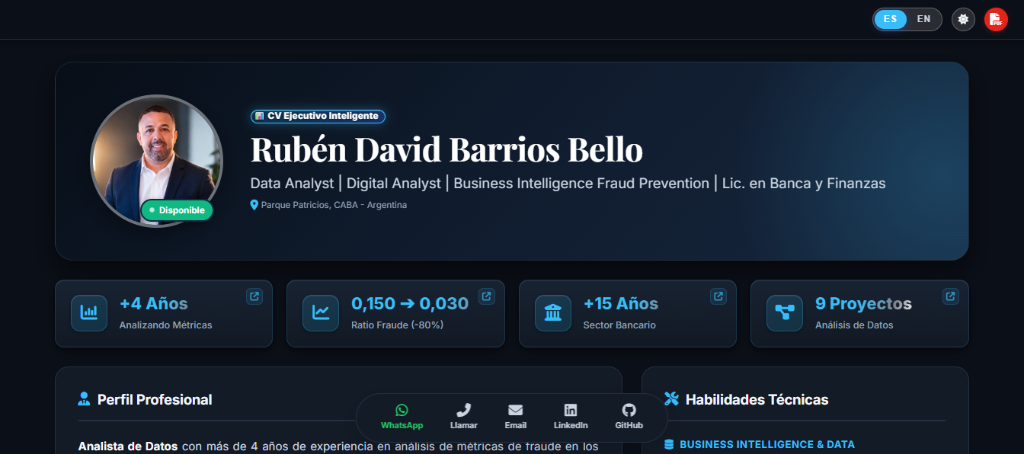
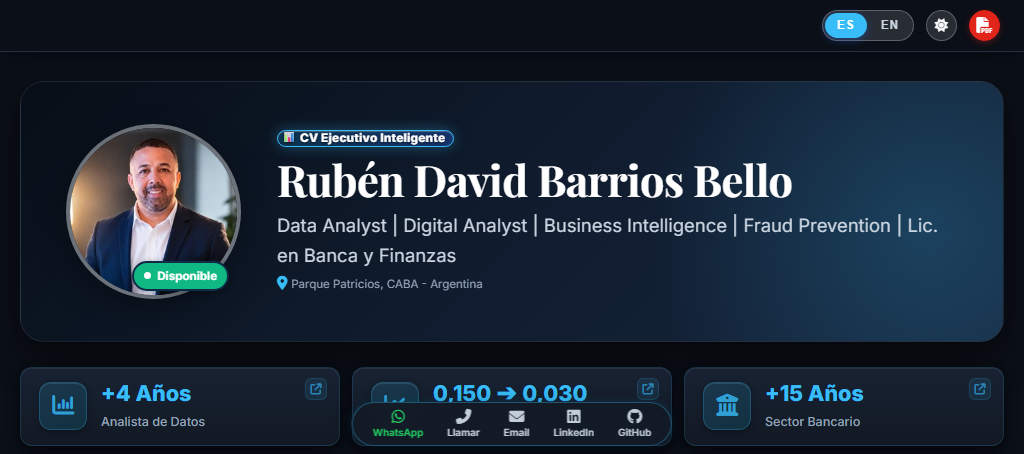
fix(og-image): actualizar captura de preview social a 6 KPIs y romper cache de WhatsApp

Changed region(s): [[0.0625, 0.0, 1.0, 0.7709], [0.0, 0.8018, 1.0, 1.0]]

diff --git a/CV_Ruben_Barrios.html b/CV_Ruben_Barrios.html
@@ -21,8 +21,8 @@
     <meta property="og:description" content="CV Interactivo & Executive Dashboard de Rubén David Barrios Bello. CV Ejecutivo Inteligente creado en Buenos Aires, Argentina.">
     <meta property="og:type" content="website">
     <meta property="og:url" content="https://rubenbarrios-bigdata.github.io/cv-ejecutivo-inteligente/">
-    <meta property="og:image" content="https://rubenbarrios-bigdata.github.io/cv-ejecutivo-inteligente/screenshots/01_kpis_dashboard_header.png">
-    <meta property="og:image:secure_url" content="https://rubenbarrios-bigdata.github.io/cv-ejecutivo-inteligente/screenshots/01_kpis_dashboard_header.png">
+    <meta property="og:image" content="https://rubenbarrios-bigdata.github.io/cv-ejecutivo-inteligente/screenshots/01_kpis_dashboard_header_6kpis.png?v=3.5">
+    <meta property="og:image:secure_url" content="https://rubenbarrios-bigdata.github.io/cv-ejecutivo-inteligente/screenshots/01_kpis_dashboard_header_6kpis.png?v=3.5">
     <meta property="og:image:type" content="image/png">
     <meta property="og:image:width" content="1350">
     <meta property="og:image:height" content="720">
@@ -30,7 +30,7 @@
     <meta name="twitter:card" content="summary_large_image">
     <meta name="twitter:title" content="Rubén David Barrios Bello | CV Ejecutivo Inteligente">
     <meta name="twitter:description" content="CV Interactivo & Executive Dashboard de Rubén David Barrios Bello - Data Analyst & BI Specialist.">
-    <meta name="twitter:image" content="https://rubenbarrios-bigdata.github.io/cv-ejecutivo-inteligente/screenshots/01_kpis_dashboard_header.png">
+    <meta name="twitter:image" content="https://rubenbarrios-bigdata.github.io/cv-ejecutivo-inteligente/screenshots/01_kpis_dashboard_header_6kpis.png?v=3.5">
     <meta http-equiv="Cache-Control" content="no-cache, no-store, must-revalidate">
     <meta http-equiv="Pragma" content="no-cache">
     <meta http-equiv="Expires" content="0">

diff --git a/CV_Ruben_Barrios_Mobile.html b/CV_Ruben_Barrios_Mobile.html
@@ -21,8 +21,8 @@
     <meta property="og:description" content="CV Interactivo & Executive Dashboard de Rubén David Barrios Bello. CV Ejecutivo Inteligente creado en Buenos Aires, Argentina.">
     <meta property="og:type" content="website">
     <meta property="og:url" content="https://rubenbarrios-bigdata.github.io/cv-ejecutivo-inteligente/">
-    <meta property="og:image" content="https://rubenbarrios-bigdata.github.io/cv-ejecutivo-inteligente/screenshots/01_kpis_dashboard_header.png">
-    <meta property="og:image:secure_url" content="https://rubenbarrios-bigdata.github.io/cv-ejecutivo-inteligente/screenshots/01_kpis_dashboard_header.png">
+    <meta property="og:image" content="https://rubenbarrios-bigdata.github.io/cv-ejecutivo-inteligente/screenshots/01_kpis_dashboard_header_6kpis.png?v=3.5">
+    <meta property="og:image:secure_url" content="https://rubenbarrios-bigdata.github.io/cv-ejecutivo-inteligente/screenshots/01_kpis_dashboard_header_6kpis.png?v=3.5">
     <meta property="og:image:type" content="image/png">
     <meta property="og:image:width" content="1350">
     <meta property="og:image:height" content="720">
@@ -30,7 +30,7 @@
     <meta name="twitter:card" content="summary_large_image">
     <meta name="twitter:title" content="Rubén David Barrios Bello | CV Ejecutivo Inteligente">
     <meta name="twitter:description" content="CV Interactivo & Executive Dashboard de Rubén David Barrios Bello - Data Analyst & BI Specialist.">
-    <meta name="twitter:image" content="https://rubenbarrios-bigdata.github.io/cv-ejecutivo-inteligente/screenshots/01_kpis_dashboard_header.png">
+    <meta name="twitter:image" content="https://rubenbarrios-bigdata.github.io/cv-ejecutivo-inteligente/screenshots/01_kpis_dashboard_header_6kpis.png?v=3.5">
     <meta http-equiv="Cache-Control" content="no-cache, no-store, must-revalidate">
     <meta http-equiv="Pragma" content="no-cache">
     <meta http-equiv="Expires" content="0">

diff --git a/index.html b/index.html
@@ -21,8 +21,8 @@
     <meta property="og:description" content="CV Interactivo & Executive Dashboard de Rubén David Barrios Bello. CV Ejecutivo Inteligente creado en Buenos Aires, Argentina.">
     <meta property="og:type" content="website">
     <meta property="og:url" content="https://rubenbarrios-bigdata.github.io/cv-ejecutivo-inteligente/">
-    <meta property="og:image" content="https://rubenbarrios-bigdata.github.io/cv-ejecutivo-inteligente/screenshots/01_kpis_dashboard_header.png">
-    <meta property="og:image:secure_url" content="https://rubenbarrios-bigdata.github.io/cv-ejecutivo-inteligente/screenshots/01_kpis_dashboard_header.png">
+    <meta property="og:image" content="https://rubenbarrios-bigdata.github.io/cv-ejecutivo-inteligente/screenshots/01_kpis_dashboard_header_6kpis.png?v=3.5">
+    <meta property="og:image:secure_url" content="https://rubenbarrios-bigdata.github.io/cv-ejecutivo-inteligente/screenshots/01_kpis_dashboard_header_6kpis.png?v=3.5">
     <meta property="og:image:type" content="image/png">
     <meta property="og:image:width" content="1350">
     <meta property="og:image:height" content="720">
@@ -30,7 +30,7 @@
     <meta name="twitter:card" content="summary_large_image">
     <meta name="twitter:title" content="Rubén David Barrios Bello | CV Ejecutivo Inteligente">
     <meta name="twitter:description" content="CV Interactivo & Executive Dashboard de Rubén David Barrios Bello - Data Analyst & BI Specialist.">
-    <meta name="twitter:image" content="https://rubenbarrios-bigdata.github.io/cv-ejecutivo-inteligente/screenshots/01_kpis_dashboard_header.png">
+    <meta name="twitter:image" content="https://rubenbarrios-bigdata.github.io/cv-ejecutivo-inteligente/screenshots/01_kpis_dashboard_header_6kpis.png?v=3.5">
     <meta http-equiv="Cache-Control" content="no-cache, no-store, must-revalidate">
     <meta http-equiv="Pragma" content="no-cache">
     <meta http-equiv="Expires" content="0">

diff --git a/mobile.html b/mobile.html
@@ -21,8 +21,8 @@
     <meta property="og:description" content="CV Interactivo & Executive Dashboard de Rubén David Barrios Bello. CV Ejecutivo Inteligente creado en Buenos Aires, Argentina.">
     <meta property="og:type" content="website">
     <meta property="og:url" content="https://rubenbarrios-bigdata.github.io/cv-ejecutivo-inteligente/">
-    <meta property="og:image" content="https://rubenbarrios-bigdata.github.io/cv-ejecutivo-inteligente/screenshots/01_kpis_dashboard_header.png">
-    <meta property="og:image:secure_url" content="https://rubenbarrios-bigdata.github.io/cv-ejecutivo-inteligente/screenshots/01_kpis_dashboard_header.png">
+    <meta property="og:image" content="https://rubenbarrios-bigdata.github.io/cv-ejecutivo-inteligente/screenshots/01_kpis_dashboard_header_6kpis.png?v=3.5">
+    <meta property="og:image:secure_url" content="https://rubenbarrios-bigdata.github.io/cv-ejecutivo-inteligente/screenshots/01_kpis_dashboard_header_6kpis.png?v=3.5">
     <meta property="og:image:type" content="image/png">
     <meta property="og:image:width" content="1350">
     <meta property="og:image:height" content="720">
@@ -30,7 +30,7 @@
     <meta name="twitter:card" content="summary_large_image">
     <meta name="twitter:title" content="Rubén David Barrios Bello | CV Ejecutivo Inteligente">
     <meta name="twitter:description" content="CV Interactivo & Executive Dashboard de Rubén David Barrios Bello - Data Analyst & BI Specialist.">
-    <meta name="twitter:image" content="https://rubenbarrios-bigdata.github.io/cv-ejecutivo-inteligente/screenshots/01_kpis_dashboard_header.png">
+    <meta name="twitter:image" content="https://rubenbarrios-bigdata.github.io/cv-ejecutivo-inteligente/screenshots/01_kpis_dashboard_header_6kpis.png?v=3.5">
     <meta http-equiv="Cache-Control" content="no-cache, no-store, must-revalidate">
     <meta http-equiv="Pragma" content="no-cache">
     <meta http-equiv="Expires" content="0">

diff --git a/CV_Ruben_Barrios_Data_Analyst.html b/CV_Ruben_Barrios_Data_Analyst.html
@@ -17,15 +17,15 @@
   <meta property="og:description" content="CV de Rubén David Barrios Bello - Data Analyst especializado en Power BI, DAX, SQL, Python y Prevención de Fraudes.">
   <meta property="og:type" content="website">
   <meta property="og:url" content="https://rubenbarrios-bigdata.github.io/cv-ejecutivo-inteligente/">
-  <meta property="og:image" content="https://rubenbarrios-bigdata.github.io/cv-ejecutivo-inteligente/screenshots/01_kpis_dashboard_header.png">
-  <meta property="og:image:secure_url" content="https://rubenbarrios-bigdata.github.io/cv-ejecutivo-inteligente/screenshots/01_kpis_dashboard_header.png">
+  <meta property="og:image" content="https://rubenbarrios-bigdata.github.io/cv-ejecutivo-inteligente/screenshots/01_kpis_dashboard_header_6kpis.png?v=3.5">
+  <meta property="og:image:secure_url" content="https://rubenbarrios-bigdata.github.io/cv-ejecutivo-inteligente/screenshots/01_kpis_dashboard_header_6kpis.png?v=3.5">
   <meta property="og:image:type" content="image/png">
   <meta property="og:image:width" content="1350">
   <meta property="og:image:height" content="720">
   <meta name="twitter:card" content="summary_large_image">
   <meta name="twitter:title" content="Rubén David Barrios Bello | CV Data Analyst">
   <meta name="twitter:description" content="CV de Rubén David Barrios Bello - Data Analyst especializado en Power BI, DAX, SQL, Python y Prevención de Fraudes.">
-  <meta name="twitter:image" content="https://rubenbarrios-bigdata.github.io/cv-ejecutivo-inteligente/screenshots/01_kpis_dashboard_header.png">
+  <meta name="twitter:image" content="https://rubenbarrios-bigdata.github.io/cv-ejecutivo-inteligente/screenshots/01_kpis_dashboard_header_6kpis.png?v=3.5">
   <style>
     :root {
       --bg: #f8fafc;

diff --git a/README.md b/README.md
@@ -52,13 +52,13 @@ El repositorio incluye el **CV completo en formato HTML nativo**, estructurado c
 En el análisis de datos, el valor no reside únicamente en listar responsabilidades acumuladas, sino en **comunicar métricas de impacto, ratios de eficiencia y evidencia cuantificable** desde el primer contacto visual.
 
 Este CV fue concebido e implementado bajo los principios de diseño de un **Executive Dashboard**:
-- **Consumo rápido de insights**: El reclutador o líder de datos visualiza de inmediato 4 indicadores clave que resumen más de 16 años de trayectoria profesional combinada.
+- **Consumo rápido de insights**: El reclutador o líder de datos visualiza de inmediato 6 indicadores clave que resumen más de 16 años de trayectoria profesional combinada.
 - **Trazabilidad y navegación orientada a métricas**: Cada tarjeta de KPI actúa como un elemento interactivo que redirige hacia el contexto específico del proyecto o logro que respalda ese número.
 - **Mentalidad analítica en el código**: Demuestra cómo un analista aborda un producto digital, aplicando estándares modernos de desacoplamiento de datos y diseño responsive.
 
 ---
 
-## 📈 Los 4 KPIs Estratégicos
+## 📈 Los 6 KPIs Estratégicos
 
 | KPI | Métrica Clave | Enfoque de Negocio & Impacto Analítico |
 | :---: | :---: | :--- |
@@ -66,13 +66,15 @@ Este CV fue concebido e implementado bajo los principios de diseño de un **Exec
 | <div align="center"><img src="https://raw.githubusercontent.com/FortAwesome/Font-Awesome/6.x/svgs/solid/chart-line.svg" width="22" height="22"></div> | **`0,150 ➔ 0,030`**<br><sub>Ratio Fraude (-80%)</sub> | **Impacto económico directo:** Descenso del **80%** en el ratio de fraude mediante la optimización de reglas de negocio, scoring predictivo y seguimiento periódico de indicadores de riesgo. |
 | <div align="center"><img src="https://raw.githubusercontent.com/FortAwesome/Font-Awesome/6.x/svgs/solid/building-columns.svg" width="22" height="22"></div> | **`+15 Años`**<br><sub>Sector Bancario</sub> | **Sólido criterio de negocio y finanzas:** Dominio operativo en Comercio Exterior, Operaciones Internacionales, conciliaciones transaccionales y normativas cambiarias bancarias. |
 | <div align="center"><img src="https://raw.githubusercontent.com/FortAwesome/Font-Awesome/6.x/svgs/solid/diagram-project.svg" width="22" height="22"></div> | **`9 Proyectos`**<br><sub>Análisis de Datos</sub> | **Soluciones analíticas aplicadas:** Portafolio técnico de dashboards y productos de datos en Power BI, DAX, Excel Avanzado, SQL, Python, GTM, GA4 y Data Studio. |
+| <div align="center"><img src="https://raw.githubusercontent.com/FortAwesome/Font-Awesome/6.x/svgs/solid/certificate.svg" width="22" height="22"></div> | **`9 Certificados`**<br><sub>Análisis de Datos + IA</sub> | **Certificaciones & Formación continua:** Credenciales profesionales verificadas emitidas por IBM SkillsBuild, GCBA Talento Tech, Analytics Way y Datax. |
+| <div align="center"><img src="https://raw.githubusercontent.com/FortAwesome/Font-Awesome/6.x/svgs/solid/screwdriver-wrench.svg" width="22" height="22"></div> | **`+10 Herramientas`**<br><sub>Habilidades Técnicas + IA</sub> | **Stack analítico integral:** Dominio práctico de Power BI, DAX, SQL (MySQL, PostgreSQL), Python (pandas), BigQuery, Supabase, GTM, GA4 e IA Generativa aplicada. |
 
 ---
 
 ## 📸 Capturas de Pantalla del CV Renderizado
 
 ### 1. Banner Ejecutivo de KPIs y Perfil Profesional
-Visualización en modo claro destacando los 4 indicadores clave y la síntesis de perfil:
+Visualización en modo claro destacando los 6 indicadores clave y la síntesis de perfil:
 
 <div align="center">
   <img src="screenshots/01_kpis_dashboard_header.png" alt="KPIs Dashboard Header" width="95%" style="border-radius: 8px; box-shadow: 0 4px 12px rgba(0,0,0,0.15);">
@@ -232,7 +234,7 @@ Para maximizar la visibilidad ante reclutadores técnicos y hiring managers en L
    - En tu perfil de LinkedIn, hacé clic en **Añadir sección** ➔ **Destacados** ➔ **+ Enlaces**.
    - Pegá la URL: `https://rubenbarrios-bigdata.github.io/cv-ejecutivo-inteligente/`
    - **Título**: `📊 CV Interactivo — Dashboard de Métricas Profesionales & Data Analytics`
-   - **Descripción**: `Mi CV interactivo estructurado como un dashboard ejecutivo con 4 KPIs clave sobre mi trayectoria en prevención de fraudes, finanzas bancarias y analítica de datos.`
+   - **Descripción**: `Mi CV interactivo estructurado como un dashboard ejecutivo con 6 KPIs clave sobre mi trayectoria en prevención de fraudes, finanzas bancarias y analítica de datos.`
    - Podés adjuntar como miniatura la captura `screenshots/01_kpis_dashboard_header.png`.
 
 2. **Enlace de Contacto / Encabezado de Perfil**:
